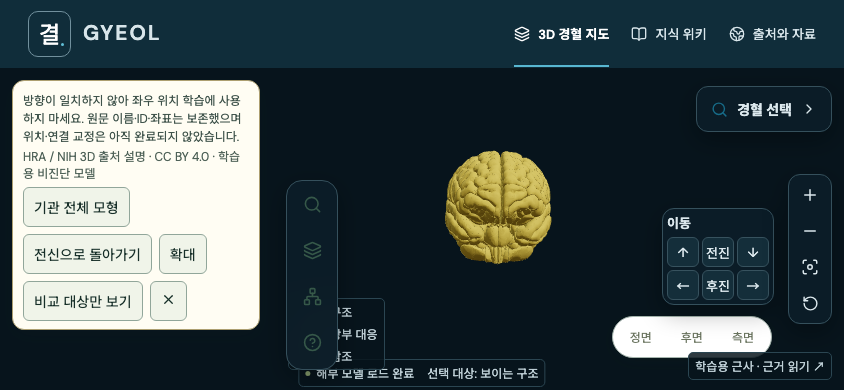
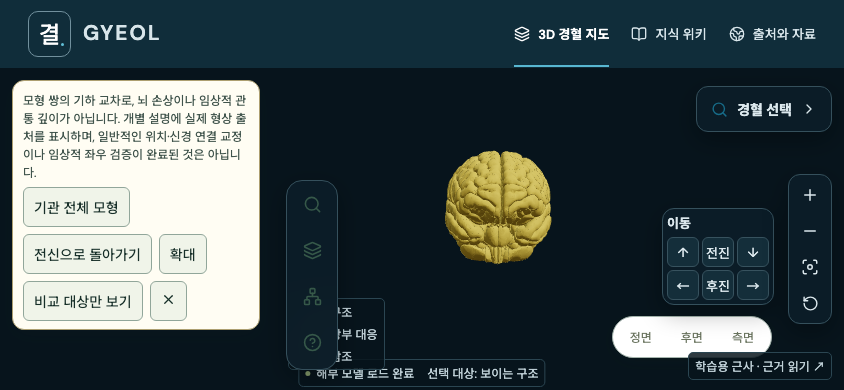
Disclose current female brain-skull intersections

Changed region(s): [[0.0308, 0.2462, 0.3081, 0.4615]]

diff --git a/src/App.tsx b/src/App.tsx
@@ -1191,9 +1191,9 @@ function AtlasPage({
               {!fullLungDetail && <div className="selection-actions">{lungViewOptions}</div>}
             </details>}
             {state.sex === "female" && selectedOrgan?.id === "brain" && <div data-brain-provenance>
-              <p className="selection-description">뇌 묶음: Allen 참조 282개 + Visible Human 시신경교차 1개 · Allen 좌우 선택 연결 교정 · 위치 검증 미완료</p>
+              <p className="selection-description">뇌 묶음: Allen 참조 282개 + Visible Human 시신경교차 1개 · 차용 머리뼈와 뇌 모형 35개 표면 교차 · 위치 검증 미완료</p>
               <details className="anatomy-source-details"><summary>뇌 출처·방향 주의</summary>
-                <p className="selection-description">282개는 Allen 참조 구조를 대칭 복제하고 여성 신체에 맞춰 크기를 조정한 모델로, 여성 기증자 뇌 스캔이 아닙니다. 시신경교차 1개는 Visible Human 여성 자료로 그대로 유지합니다. Allen 원본의 좌우 표기가 전신의 눈·대퇴골 기준과 반대여서, 원문 이름·ID는 유지하고 대응하는 반대쪽 원본 형상을 연결했습니다. 전체 뇌 형상은 바꾸지 않았습니다. 개별 설명에 실제 형상 출처를 표시하며, 일반적인 위치·신경 연결 교정이나 임상적 좌우 검증이 완료된 것은 아닙니다.</p>
+                <p className="selection-description">282개는 Allen 참조 구조를 대칭 복제하고 여성 신체에 맞춰 크기를 조정한 모델로, 여성 기증자 뇌 스캔이 아닙니다. 시신경교차 1개는 Visible Human 여성 자료로 그대로 유지합니다. Allen 원본의 좌우 표기가 전신의 눈·대퇴골 기준과 반대여서, 원문 이름·ID는 유지하고 대응하는 반대쪽 원본 형상을 연결했습니다. 전체 뇌 형상은 바꾸지 않았습니다. 현재 뇌 모형 35개와 남성 유래 보완 머리뼈 6개 사이에 표면 교차 55쌍이 남아 있습니다. 이 수치는 모형 쌍의 기하 교차로, 뇌 손상이나 임상적 관통 깊이가 아닙니다. 개별 설명에 실제 형상 출처를 표시하며, 일반적인 위치·신경 연결 교정이나 임상적 좌우 검증이 완료된 것은 아닙니다.</p>
                 <p className="selection-source"><a href="https://3d.nih.gov/entries/3DPX-020959" target="_blank" rel="noreferrer">HRA / NIH 3D 출처 설명</a> · CC BY 4.0 · 학습용 비진단 모델</p>
               </details>
             </div>}

diff --git a/tests/browser/brain-provenance.spec.ts b/tests/browser/brain-provenance.spec.ts
@@ -11,12 +11,30 @@ test('female reference brain exposes provenance for bundle and individual select
   await page.locator('.featured-anatomy > button').filter({has:page.getByText('뇌',{exact:true})}).click();await ready(page);
   const notice=page.locator('[data-brain-provenance]');await expect(notice).toBeVisible();
   await expect(notice).toContainText('Allen 참조 282개 + Visible Human 시신경교차 1개');
+  await expect(notice).toContainText('차용 머리뼈와 뇌 모형 35개 표면 교차');
   expect((await snapshot(page)).selection.ids).toHaveLength(283);
   const fit=async()=>{
     await expect.poll(async()=>(await detailProjection(page,fiberUrl)).clearance).toBeGreaterThan(4);
     await expect.poll(async()=>(await detailProjection(page,fiberUrl)).canvasClearance).toBeGreaterThan(0);
   };
+  for(const [label,width,height] of [['desktop',1440,900],['mobile',390,844],['landscape',844,390]] as const){
+    await page.setViewportSize({width,height});await fit();
+    const warning=notice.locator('p').first();await warning.scrollIntoViewIfNeeded();
+    await expect(warning).toBeInViewport();
+    await expect(page.getByRole('button',{name:'전신으로 돌아가기',exact:true})).toBeInViewport();
+    const readability=await warning.evaluate(el=>{
+      const rgb=(value:string)=>value.match(/[\d.]+/g)!.slice(0,3).map(Number);
+      const luminance=(v:number[])=>v.map(x=>{x/=255;return x<=.04045?x/12.92:((x+.055)/1.055)**2.4;}).reduce((n,x,i)=>n+x*[.2126,.7152,.0722][i],0);
+      const fg=luminance(rgb(getComputedStyle(el).color));
+      const bg=luminance(rgb(getComputedStyle(el.closest('.selection-card')!).backgroundColor));
+      return {font:parseFloat(getComputedStyle(el).fontSize),contrast:(Math.max(fg,bg)+.05)/(Math.min(fg,bg)+.05)};
+    });
+    expect(readability.font).toBeGreaterThanOrEqual(12);expect(readability.contrast).toBeGreaterThanOrEqual(4.5);
+    await page.screenshot({path:`docs/anatomy-alignment/brain-skull-warning-${label}.png`});
+  }
+  await page.setViewportSize({width:1440,height:900});
   await notice.locator('summary').click();
+  await expect(notice).toContainText('표면 교차 55쌍');
   await expect(notice.getByRole('link')).toHaveAttribute('href','https://3d.nih.gov/entries/3DPX-020959');
   for(const [label,width,height] of [['desktop',1440,900],['mobile',390,844],['landscape',844,390]] as const){
     await page.setViewportSize({width,height});await fit();

diff --git a/src/anatomy.ts b/src/anatomy.ts
@@ -127,7 +127,7 @@ export function stageDescription(stage: number, sex: "male" | "female") {
     organ: "여성 CT 자료는 전신에 합쳐지지 않은 별도 상세입니다. 전통적 장부 대응은 압력 전달 경로가 아닙니다.",
     vessel: "여성 원본에 수록된 혈관을 검색·선택합니다. 전신 미세혈관 전체를 뜻하지 않습니다.",
     lymph: "여성 원본에 명명된 림프 구조입니다. 남성 자료와 수록 범위가 다릅니다.",
-    nerve: "뇌 묶음은 Allen 참조 282개와 Visible Human 시신경교차 1개입니다. Allen 좌우 선택 연결을 전신 기준에 맞췄으나 위치·신경 연결 검증은 미완료이며, 전신 말초신경 전체를 포함하지 않습니다.",
+    nerve: "뇌 묶음은 Allen 참조 282개와 Visible Human 시신경교차 1개입니다. 현재 뇌 모형 35개가 남성 유래 차용 머리뼈와 표면 교차합니다. 위치·신경 연결 검증은 미완료이며, 전신 말초신경 전체를 포함하지 않습니다.",
   };
   return `여성 전신 참조의 ${layerNames[layer]} 모형 ${count}개. ${limitations[layer]}`;
 }

diff --git a/docs/anatomy-alignment/NEURAL_BONE_RELATIONS.md b/docs/anatomy-alignment/NEURAL_BONE_RELATIONS.md
@@ -1,8 +1,26 @@
 # 신경 계통–골격 및 HRA 뇌 원본 대조 — 2026-09-21
 
+## 2026-09-28 현재 표시용 전신 재감사
+
[1 lines of base64/hex data omitted]
+
+| 대상 | 당시 → 현재 교차 모형 쌍 | 현재 교차 신경 계통 모형 | 현재 판정 |
+| --- | ---: | ---: | --- |
+| 여성 전체 | 82 → 75 | 49 | 75쌍 모두 남성 유래 차용 머리뼈와의 엄격한 삼각형 표면 교차 |
+| 여성 뇌 묶음 | 당시/현재 모두 35개 모형 교차 | 35 | 현재 6개 차용 두개골 부위와 55쌍. 원본 좌우 형상 연결 변경으로 **쌍 구성은 당시와 다름** |
+| 여성 눈·뇌막·시신경 등 나머지 | 현재 20쌍 | 14 | 감각 조직 14쌍, 신경 계통 6쌍. 실제 신경만의 수치가 아님 |
+| 여성 고유 척수–척추 | 7 → 0 | 0 | [15분절 국소 이동](CORD_SECTION_GRID.md) 후 이 감사의 표면 교차는 없음. 신경뿌리·척추관 정확도는 별개 |
+| 남성 전체 | 564 → 564 | 204 | BP3 골격과 등록된 Z-Anatomy 신경 계통의 교차가 그대로 남음 |
+
+당시 결과와 현재 결과를 뺄 때 사라진 쌍은 53개, 새로 보이는 쌍은 46개입니다. 그중 사라진 7쌍이 척수–척추이고 나머지 변경은 주로 Allen 좌우 형상 연결에 따른 **ID별 구성 변화**입니다. 따라서 전체 82→75를 척수 교정 단독의 전신 성과로 계산하지 않습니다. 75쌍이 모두 차용 뼈와 교차한다는 결과는 현재 검사 범위의 표면 검사이며, 여성 고유 조직의 위치·연결이 모두 맞다는 뜻도 아닙니다. 뇌 모형 35개/55쌍은 선택 카드와 신경 계통 안내에 기하학적 한계로 고지합니다. 모형 쌍의 교차를 손상·침투 깊이·임상 정확도로 해석하지 않습니다.
+
+Denver 사용 제공 ZIP은 [하체만 수록](DONOR_SOURCE_COMPARISON.md)하며 같은 기증자 두개골이 없습니다. 별도 확보한 [BoneHub 여성 원본 두개골](BONEHUB_HEAD_FRAME.md)을 현재 목뼈에 맞춘 강체 후보는 피부 이탈0이었지만 교차하는 신경 계통 모형이49→74개, 뇌 모형이35→58개로 늘어 미적용입니다. 따라서 차용 머리뼈를 단순 교체하거나 뇌를 임의 축소하지 않습니다. 뇌/두개강의 동일 원본 영상 대조와 신경 경로 검증이 다음 조건입니다.
+
+## 2026-09-21 당시 검사와 출처 고지
+
 **좌표 교정 완료가 아닙니다.** 피부 포함·박리 중 좌표 불변만으로 내부 기관 정합을 승인하지 않습니다. 이번 런타임 변경은 여성 뇌의 출처·방향 한계 안내와 모바일 선택 카드의 조작 고정이며, 해부 좌표·이름·ID·가시 집합은 그대로입니다.
 
-## 현재 전신 표면 교차
+### 당시 전신 표면 교차
 
 | 전신 | 검사 쌍 | 교차하는 신경 계통 모형 | 교차 모형 쌍 | 엄격한 평면 가로지름이 있는 모형 쌍 |
 | --- | ---: | ---: | ---: | ---: |

diff --git a/docs/anatomy-alignment/VERIFICATION.md b/docs/anatomy-alignment/VERIFICATION.md
@@ -1,6 +1,12 @@
 # 성별 분리·기관 상세·연속 박리 재검증
 
-## 최신 후속: 여성 보완 근육–골격 관계 감사
+## 최신 후속: 여성 뇌–차용 두개골 교차의 현재 상태 고지
+
+척수 표시 교정과 Allen 좌우 형상 연결 후 전신 신경 계통–골격을 같은 전수 스크립트로 재검사했습니다. 여성 116,202쌍 중 엄격한 표면 교차75쌍/49모형은 전부 남성 유래 차용 머리뼈와의 관계이며, 그중 뇌35모형/55쌍입니다. 여성 고유 척수–척추7쌍은0으로 바뀌었으나, 과거 전체82→75의 구성에는 뇌 형상 연결 변경도 있어 척수 단독 개선으로 오해하지 않습니다. 남성564쌍/204모형은 그대로입니다. 이 위치 한계를 여성 뇌 선택 카드·신경 계통 안내에 표시합니다. **두개골·뇌 좌표를 이번에 교정한 것이 아니며 전체 정합은 미완료입니다.** [전수 결과 해석과 교체 보류 이유](NEURAL_BONE_RELATIONS.md#2026-09-28-현재-표시용-전신-재감사).
+
+Node317/317, TypeScript·빌드, 뇌 출처/선택 브라우저1/1, 프로덕션 스모크와 `git diff --check`를 통과했습니다. 경고가 실제 보이는지 데스크톱1440×900·모바일390×844·가로844×390에서 검사하고 [데스크톱](brain-skull-warning-desktop.png)·[모바일](brain-skull-warning-mobile.png)·[가로](brain-skull-warning-landscape.png)를 직접 확인했습니다. 세 화면 모두 경고 글자12px 이상·실제 카드 표면 대비4.5:1 이상, 전신 복귀 조작과 모형 관찰 영역을 유지합니다. 펼친 출처 설명의 세 화면과 개별 시신경교차 선택도 같은 브라우저 실행에서 다시 확인했습니다. 전체 브라우저 회귀·201단계 기하 감사를 이번 문구 변경 때문에 재실행한 것은 아닙니다. 새로 찾은 여성 상체 근육 연구는 개별 표면 자료가 요청제·재배포 미확인이라 미도입으로 [기록](SOURCE_GAPS.md)했습니다.
+
+## 앞선 후속: 여성 보완 근육–골격 관계 감사
 
 보완 근육76개와 골격 계통321개의24,396쌍을 검사했습니다. 기본 표시74개 중57개가109쌍에서 삼각형 표면 교차를 보이며, 그중42개 근육은 피부 이탈 검사만으로 드러나지 않았습니다. 장딴지근의 두 갈래가 서로 다른 상자 중심 기반 변환 묶음에 배정된 경로와 양쪽 현재 위치를 추적했습니다. **원본 STL 전후 대조는 다운로드403으로 미완료이며 현재 간격의 인과나 교정을 승인하지 않습니다. 앱 좌표는 변경하지 않았습니다.** [수치·네 진단 화면·agy 정정·다음 조건](DONOR_MUSCLE_RELATIONS.md).
 

diff --git a/docs/anatomy-alignment/SOURCE_GAPS.md b/docs/anatomy-alignment/SOURCE_GAPS.md
@@ -28,6 +28,7 @@
 | [CheRa 여성 근육](https://sketchfab.com/3d-models/female-anatomy-by-chera-muscles-132188d5be9b47eabb0e64b378d81603) | 공식 API에서 CC BY 4.0, isDownloadable=true, 여성 해부 공부용 모델 확인. 정식 다운로드 API는 로그인 부재401 | 후보 확보, 원본 파일은 미확보. 사용자에게 로그인 후 원본 ZIP 첨부 요청. 우회 추출·가입·구매하지 않음 |
 | [HRA 공식 ref-organ 목록](https://github.com/hubmapconsortium/hra-kg/tree/main/digital-objects/ref-organ) | 여성 united v1.10까지 확인. 위·전신 상체 근육·말초신경 표면 패키지 없음. ASCT-B 말초신경 목록은 명명 관계표이지3D 모형이 아님 | 기존 HRA 유지 |
 | [FHS 여성 상체 OpenSim](https://zenodo.org/records/18259702) | 여성 상체 생체역학 모델은 있으나 근육은 다수 선형 작용선/Hill-type 표현 | 완전한 근육 표면으로 간주하지 않음 |
+| [2026년 전신 MRI 근육 70종 연구](https://journals.physiology.org/doi/10.1152/japplphysiol.00772.2025) | 여성53명을 포함해 상지·몸통·하지 근육을 3D 분할했으나, 논문은 생성·분석 자료를 책임저자에게 요청해야 한다고 명시. 공개된 개별 여성 표면 파일과 그 재배포 조건은 확인되지 않음. 논문 자체는 CC BY-NC-ND 4.0 | 논문의 그림이나 통계값을 여성 전신 근육 메쉬로 대체하지 않음. 자료·라이선스 확보 전 미도입 |
 | [NIH 일반 위 모형](https://3d.nih.gov/entries/21124?version=1) | CC BY 4.0의 공개 GLB이지만 기증자 성별 미확인 | 여성 CT 근거가 확인되는 s0255를 선택, 이 모델은 미도입 |
 | [Zygote 여성 소화계](https://www.zygote.com/poly-models/3d-female-systems/3d-female-digestive-system), [SciePro 여성 신경계](https://library.sciepro.com/en/3d-models/female-nervous-system-9213796945381) | 유료 상용 모델. 무료 재배포 허가는 확인하지 못함 | 구매·파일 취득·통합하지 않음 |
 

diff --git a/docs/ui-renewal/COMMERCIAL_COMPARISON.md b/docs/ui-renewal/COMMERCIAL_COMPARISON.md
@@ -1,5 +1,9 @@
 # 공개 상용 화면 비교
 
+## 2026-09-28 여성 뇌의 남은 위치 한계
+
+여성 뇌 전체를 선택하면 차용 두개골과 35개 뇌 모형의 표면 교차가 남아 있음을 짧게 표시하고, 펼치는 출처 설명에 55개 모형 쌍의 범위·기하학적 의미를 적었습니다. 기존 기관 선택·카메라·레이어·모바일 조작은 바꾸지 않았습니다. 상용 서비스를 새로 비교한 결정이 아니라 [현재 전신 기하 재감사](../anatomy-alignment/NEURAL_BONE_RELATIONS.md#2026-09-28-현재-표시용-전신-재감사)에 따른 위험 고지이며, 경고를 정합 교정으로 계산하지 않습니다.
+
 2026-09-20 근육 박리 순서 보정은 상용 화면을 새로 비교한 변경이 아닙니다. 실제 수록 모형의 기존 제거 순서와 대학 해부 자료·출판사 교재의 표층/심층 관계를 대조해 확인된 역전을 고칩니다. 기존 연속 슬라이더·선택·카메라 조작은 유지하고, 도움말에 교육용 표시 순서 및 미검증 범위를 설명합니다. [방법과 근거](../anatomy-alignment/MUSCLE_PEEL_ORDER.md).
 
 확인일: 2026-09-12. 유료 서비스에 로그인하거나 구매하지 않았습니다. 공개 지원 자료의 실제 UI 이미지와 설명을 비교했으며, 전체 기능·성능·모바일 제스처를 직접 시험했다고 주장하지 않습니다.
